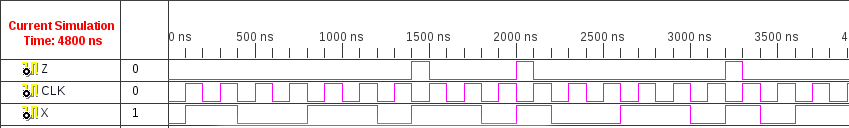
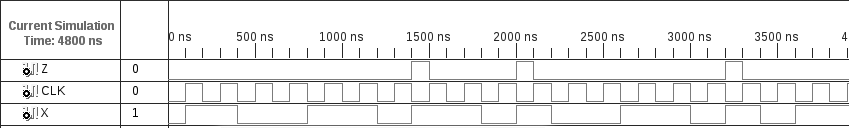
Grayscale graphics
and a typo

diff --git a/lab06/CENG241_lab_06.tex b/lab06/CENG241_lab_06.tex
@@ -337,7 +337,7 @@ Grace \textsc{Hui}
 
 
 % Lab members
-\Large Yves \textsc{Senechal}
+\Large Yves \textsc{S\'{e}n\'{e}chal}
 \large V00213837	\\
 \Large Tyler \textsc{Stephen}
 \large V00812021	\\
